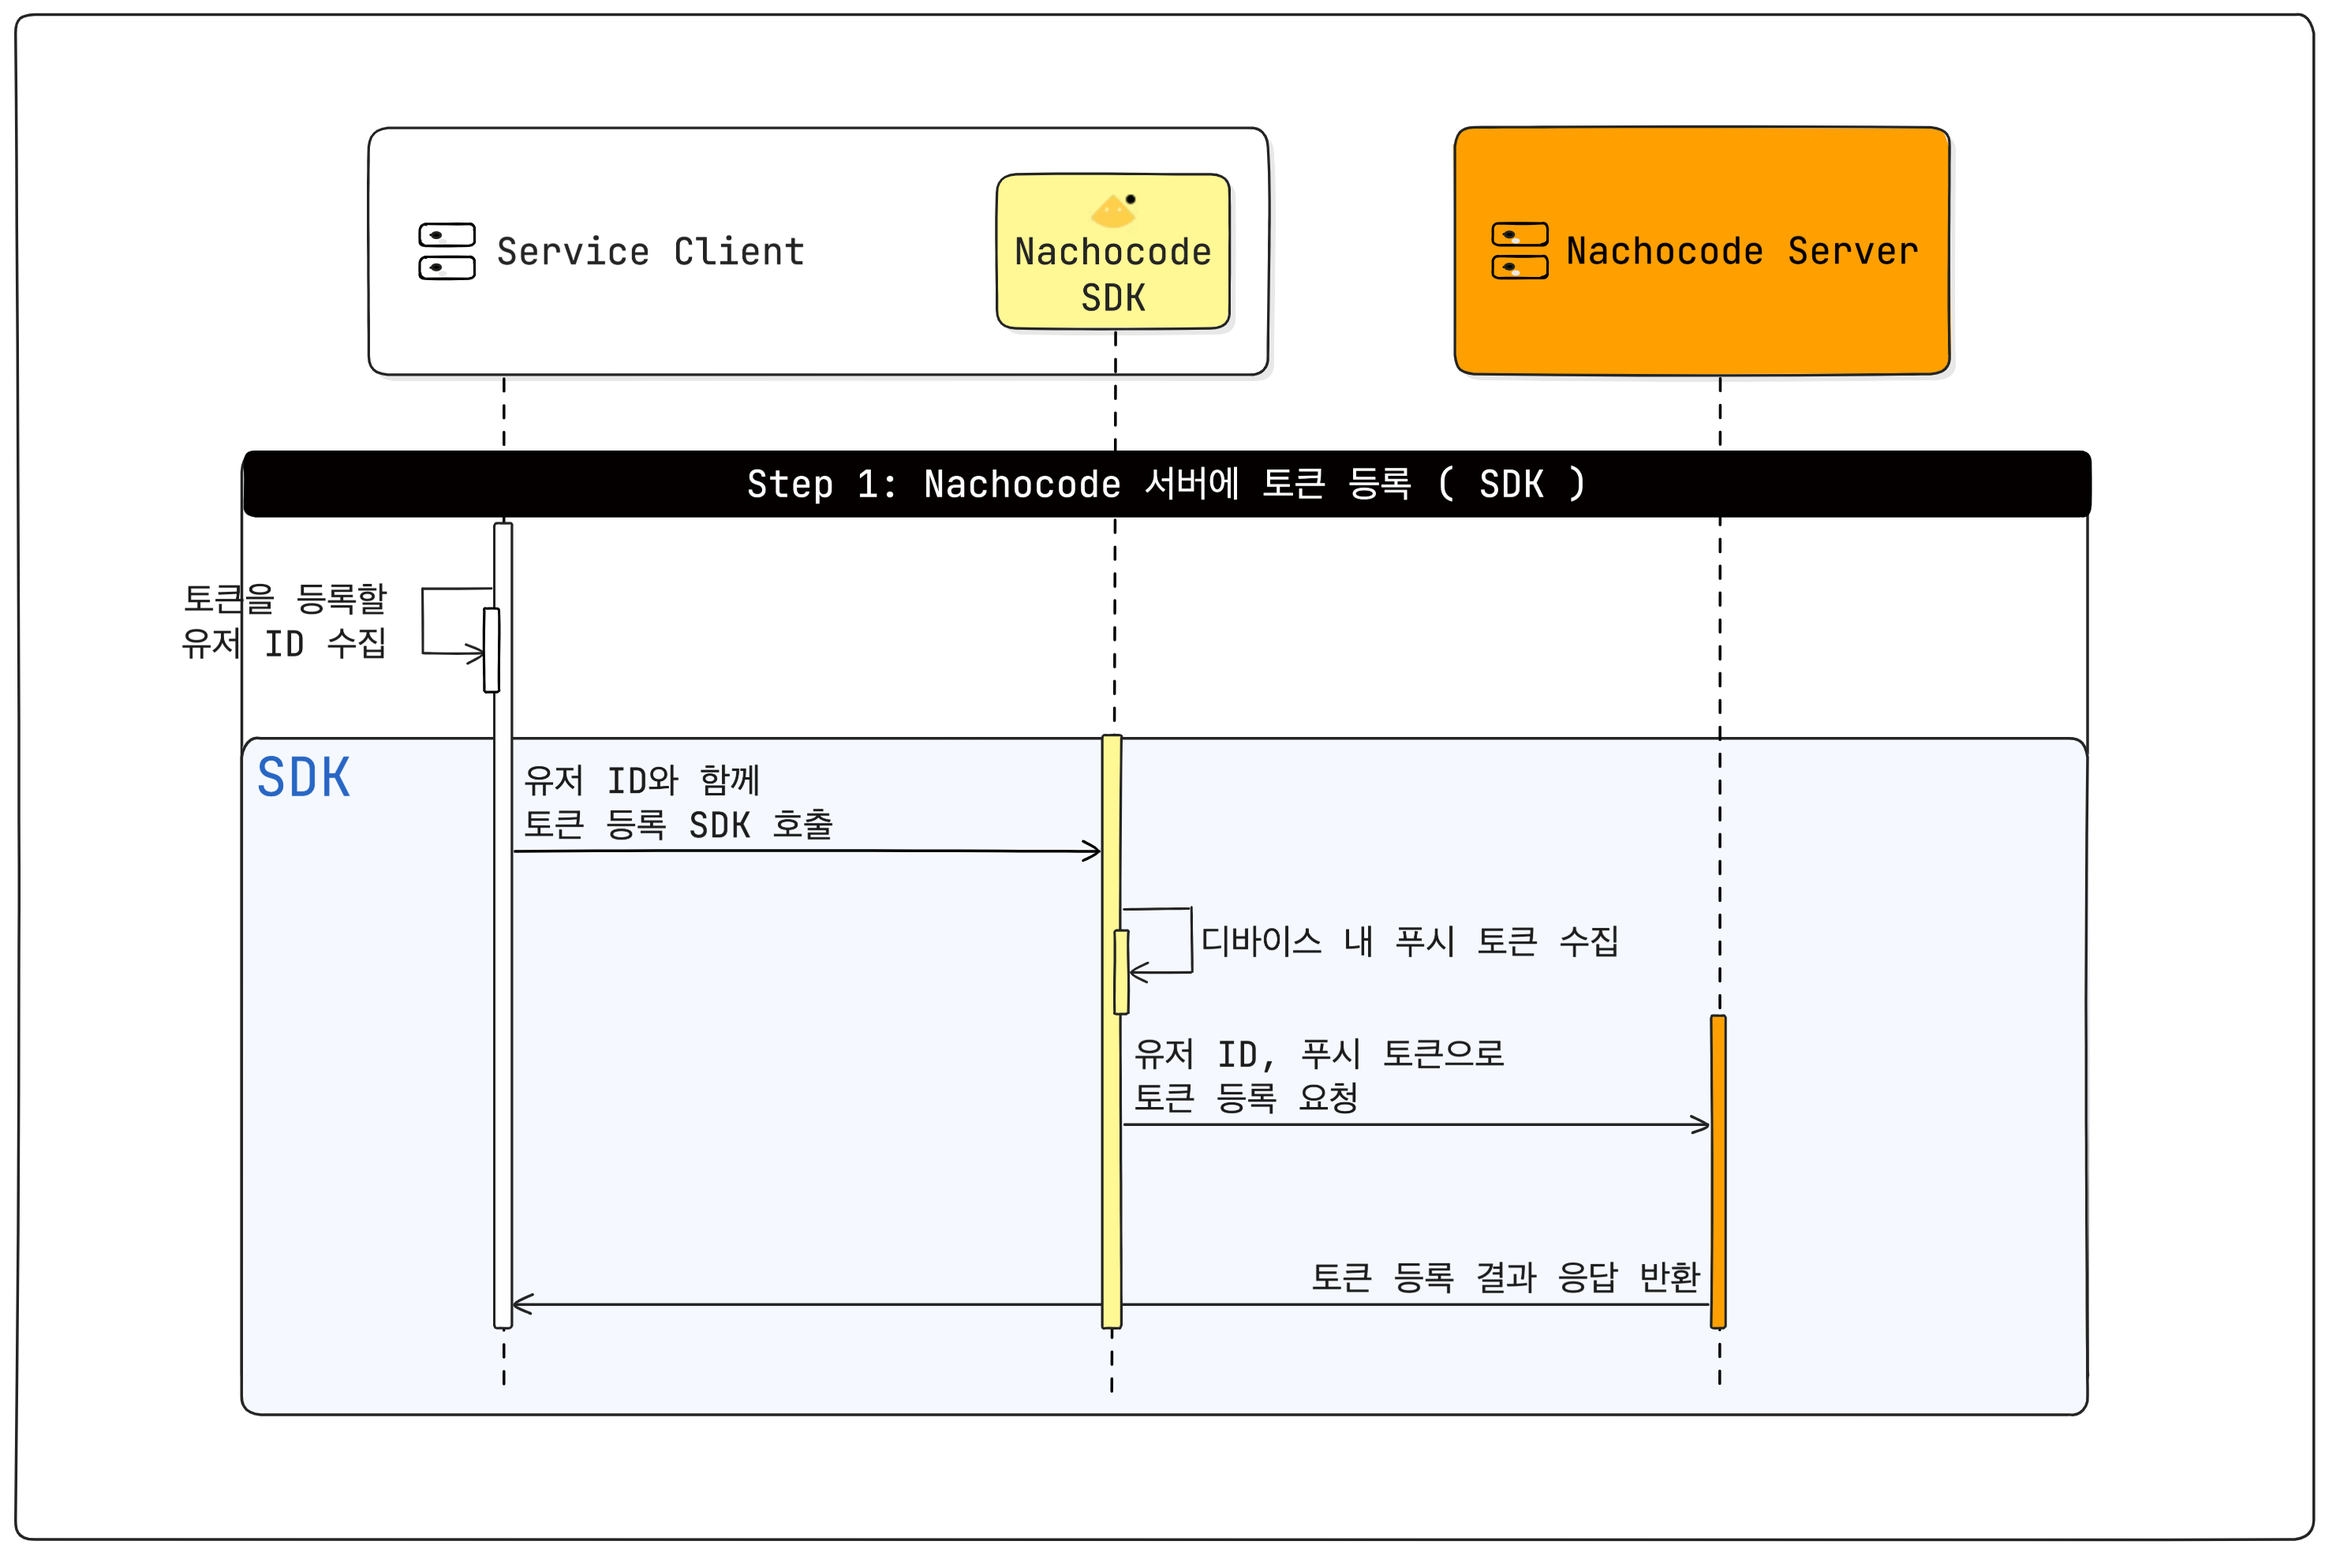
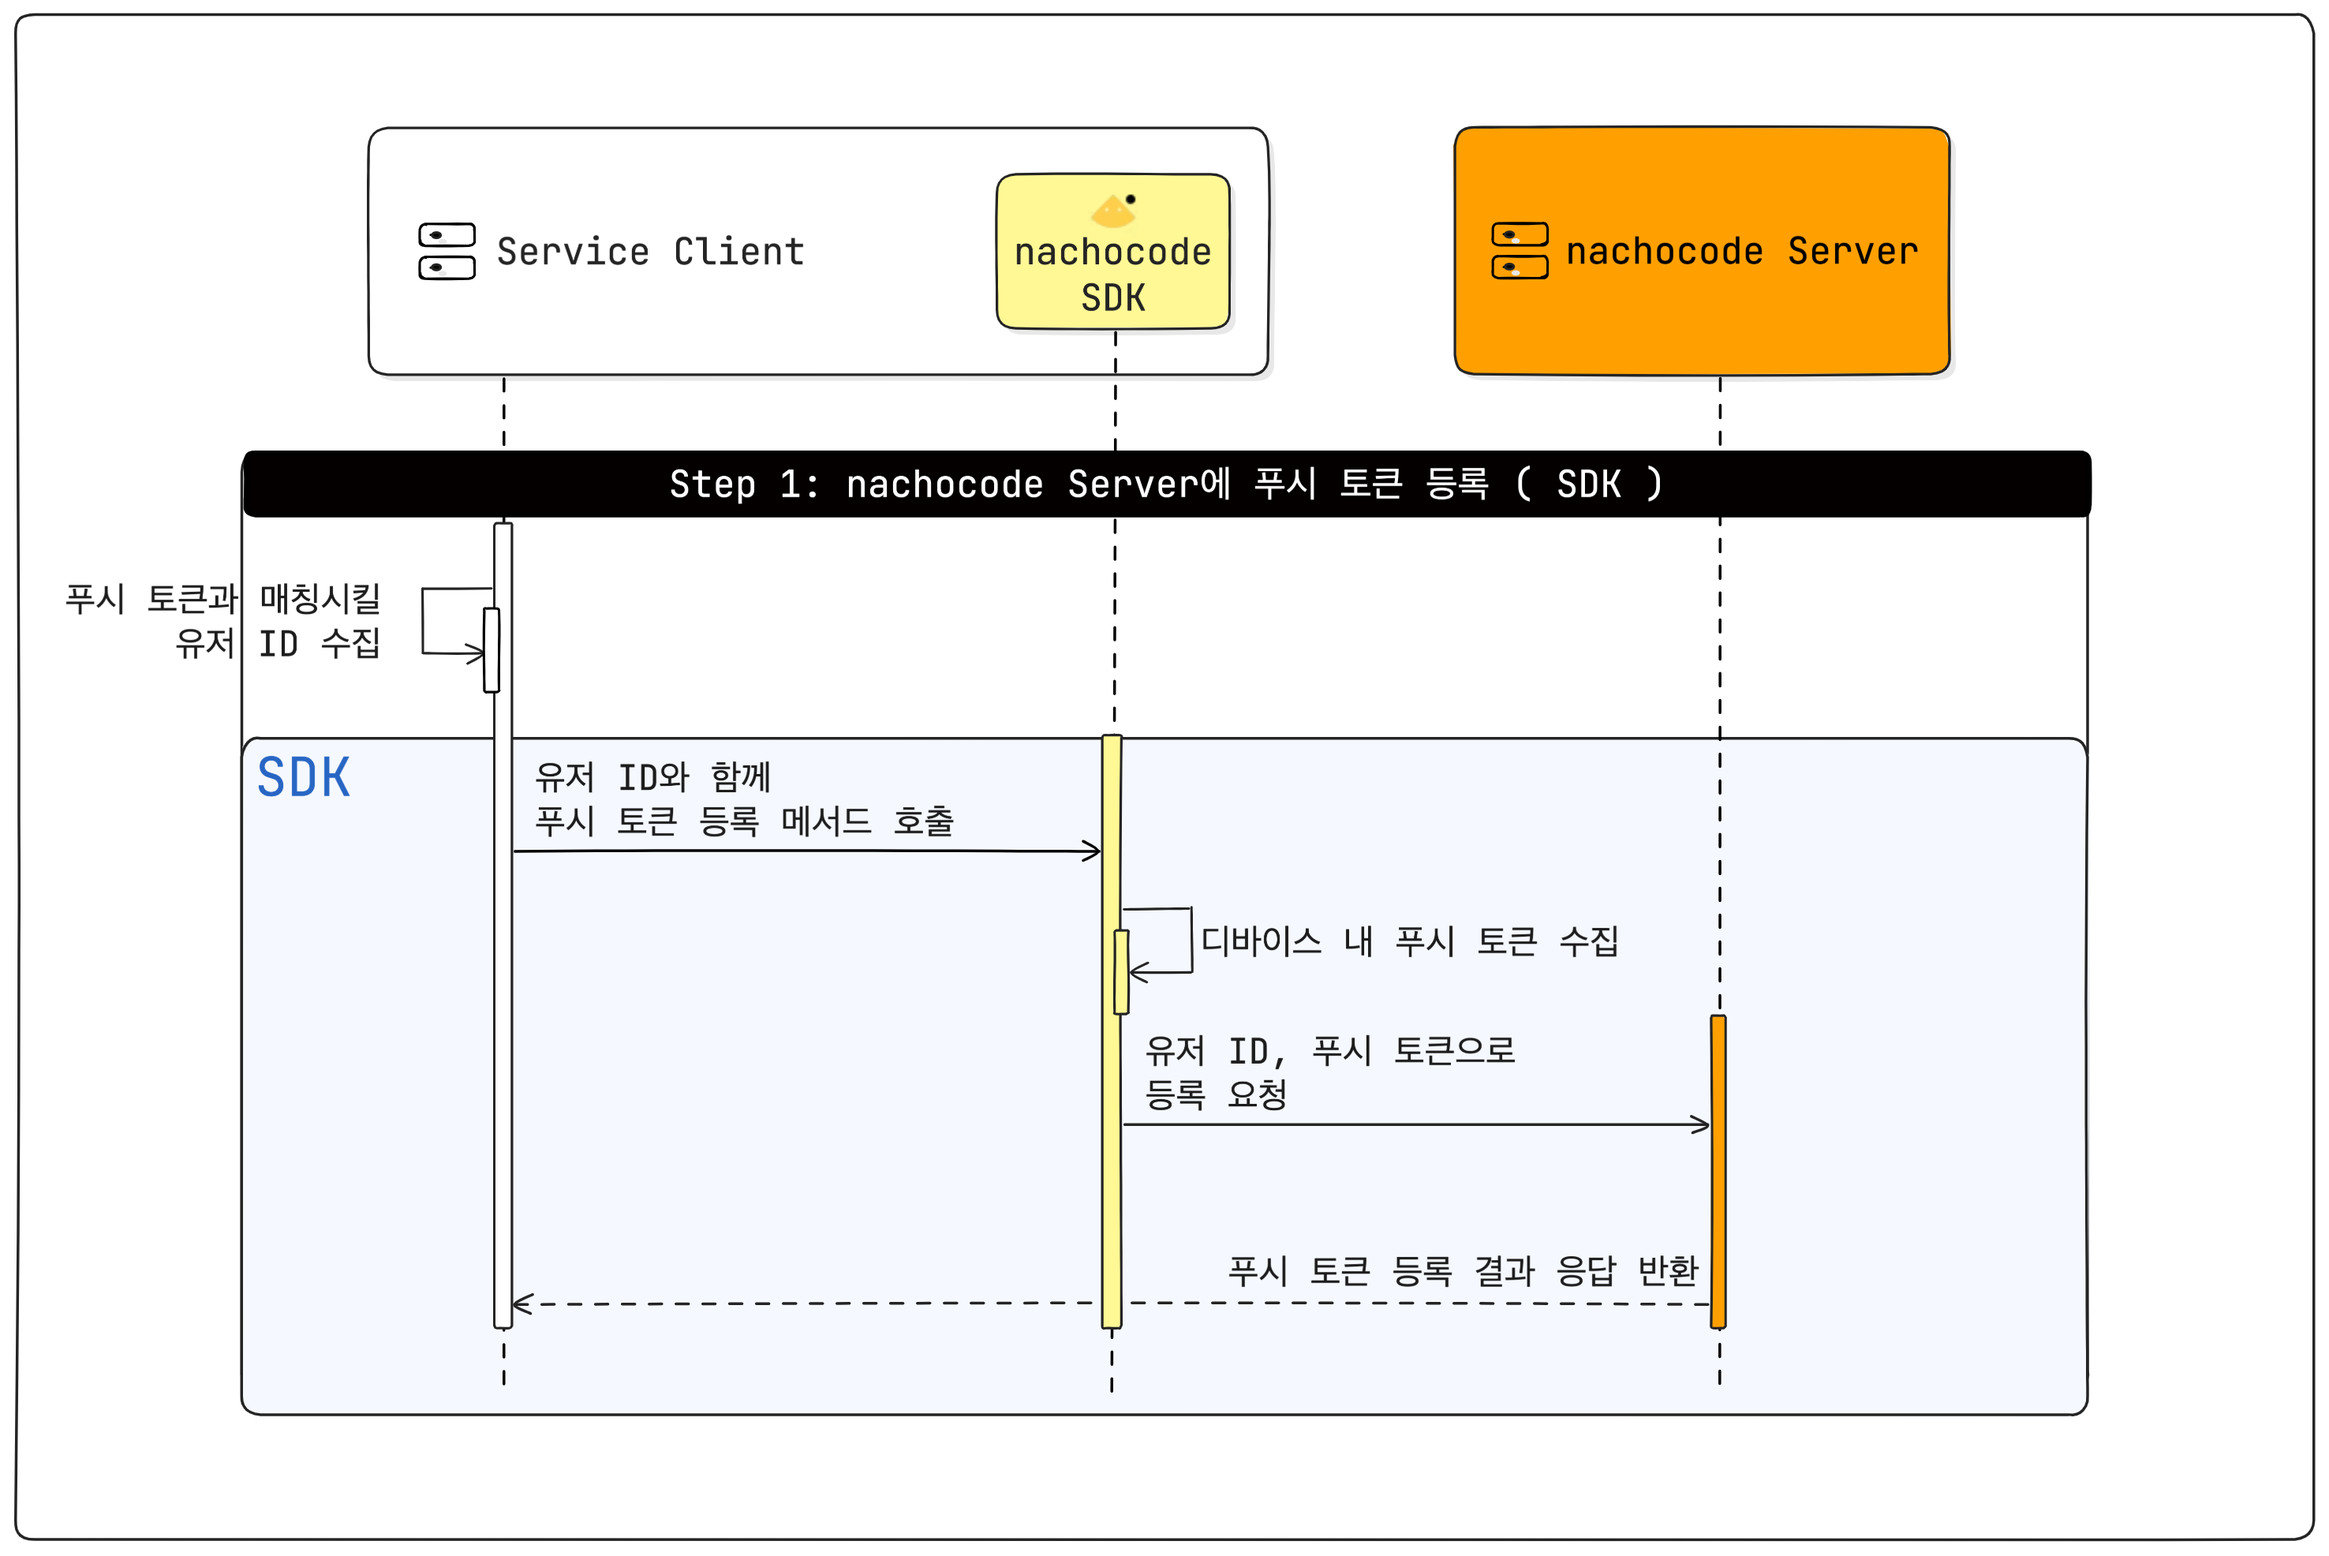
Fix : Fix comment and update diagram.

diff --git a/docs/guide/personal-push.md b/docs/guide/personal-push.md
@@ -15,33 +15,84 @@ sidebar_label: 개인화 푸시
 > [`/users`](../api/push/endpoints.md#post-apipushv2users)로 끝나는 API 엔드포인트의 경우, 다수의 유저에게 동일한 제목과 내용을 전송할 때 사용합니다.
 
 <br/>
-이 문서는 개인화 푸시 전송에 필요한 **준비 과정**과 **프로세스**에 대해 안내합니다.<br/>
+이 문서는 개인화 푸시 전송에 필요한 **준비 과정**과 **프로세스**에 대해 안내합니다.
 
 ## **개인화 푸시 전송 프로세스**
 
-**[ 프로세스 1 : Push Token 등록 (SDK) ]**
+**[ 프로세스 1 : 푸시 토큰 등록 (SDK) ]**
 
 ![personal_push_sequence_diagram](../../static/img/developer/nachocode_personal_push_sequence_diagram_1.png)
 
 <hr style={{border: "1px dashed #8E8C8C", opacity: "0.2"}}/>
 
-**[ 프로세스 2 : 푸시 전송 (API) ]**
+**[ 프로세스 2 : 개인화 푸시 전송 (API) ]**
 
 ![personal_push_sequence_diagram](../../static/img/developer/nachocode_personal_push_sequence_diagram_2.png)
 
 ### 1. 선행 작업
 
-나쵸코드 대시보드에서 **Firebase 프로젝트 설정파일 등록** 및 **API Key, Secret Key 발급**이 완료되어야 합니다.<br/>
-Firebase 프로젝트 설정파일 등록과 관련된 자세한 내용은 [사용자 가이드](https://docs.nachocode.io/ko/articles/%ED%91%B8%EC%8B%9C-%EC%95%8C%EB%A6%BC%EA%B0%9C%EC%9D%B8%ED%99%94-0eb97bdb) 탭에서 확인 가능합니다.
+나쵸코드 대시보드에서 **1)API Key, Secret Key 발급** 및 **2)Firebase 프로젝트 설정파일 등록**이 완료되어야 합니다.
 
-### 2. Push Token 등록 (SDK)
+- **API Key, Secret Key**는 안전하고 원활한 API 통신을 위해 필요한 정보로 나쵸코드 대시보드 **[앱 설정]** > **[개발자 설정]** 탭에서 발급 가능합니다.
+- **Firebase 프로젝트 설정 파일 등록**에는 아래와 같은 파일이 요구되며, 자세한 과정과 내용은 [사용자 가이드](https://docs.nachocode.io/ko/articles/%ED%91%B8%EC%8B%9C-%EC%95%8C%EB%A6%BC%EA%B0%9C%EC%9D%B8%ED%99%94-0eb97bdb) 탭에서 확인 가능합니다.
 
-[nachocode SDK](../sdk/namespaces/push#registerpushtokenuserid-string-promiseany)를 통해 유저별 토큰을 등록합니다.
+  - Firebase 계정 비공개 키
+  - Firebase 프로젝트 안드로이드 앱 생성 시 다운로드 받은 파일(`google-service.json`)
+  - Firebase 프로젝트 iOS 앱 생성 시 다운로드 받은 파일(`GoogleService-info.plist`)
 
-### 3. Push 전송 API 호출 (API Call)
+<br/>
 
-Server 대 Server [API Call](../api/push/endpoints)을 통해 푸시 전송이 가능합니다.
+### 2. 푸시 토큰 등록 ([SDK](../sdk/namespaces/push#registerpushtokenuserid-string-promiseany))
 
-### 4. 전송 결과 확인 방법
+> :white_check_mark: **유저 식별자만 제공하면, 푸시 토큰을 자동으로 등록합니다.**
 
-[nachocode](https://nachocode.io) 대시보드 **[앱 기능]** > **[푸시 알림]** > **[개인화 푸시]** 탭에서 푸시 전송 결과 확인이 가능합니다.
+<br/>
+
+나쵸코드 서버에서는 유저 식별자와 함께 유저 디바이스의 푸시 토큰을 관리하고, 이를 바탕으로 푸시 전송 요청 시 푸시를 전송할 디바이스를 특정합니다.  
+따라서, 개발자가 SDK를 활용하여 **Web Client Side에서 유저 식별자로 푸시 토큰 등록**을 완료하여야만 정상적인 푸시 전송이 가능합니다.
+
+푸시 토큰 등록은 유저를 식별할 수 있는 시점(_ex: 로그인_ )에 [토큰 등록 메서드](../sdk/namespaces/push#registerpushtokenuserid-string-promiseany) 호출을 통해 진행할 수 있습니다.  
+이 후, 제거하고자 하는 시점(_ex: 로그아웃_ )에는 [토큰 삭제 메서드](../sdk/namespaces/push#deletepushtokenuserid-string-promiseany) 호출을 통해 등록된 토큰을 삭제할 수 있습니다.
+
+<br/>
+
+### 3. 개인화 푸시 전송 ([API](../api/push/endpoints.md))
+
+> :white_check_mark: **등록된 유저 식별자만으로 매칭 및 푸시 전송이 이루어집니다.**
+
+<br/>
+
+**동일한 내용**을 **다수의 유저**에게 전송할 시에는 [`/users`](../api/push/endpoints.md#post-apipushv2users) API Endpoint를 사용하고,  
+**각 유저마다 다른 내용**을 전송할 시에는 [`/messages`](../api/push/endpoints.md#post-apipushv2messages) API Endpoint를 사용합니다.
+
+API 호출은 Server 대 Server 요청을 통해 이루어지므로, 푸시 전송 시점을 선정하여 개발자가 **Server Side 로직에 추가**하여야 합니다.  
+**전송하고자 하는 내용**과 대시보드에서 발급받은 **API Key, Secret Key**로 요청 데이터를 구성하여 상황에 맞는 API Endpoint로 푸시 전송을 요청할 수 있습니다.
+
+푸시 전송 요청이 nachocode server로 전달되면 토큰-유저식별자 매칭 과정을 거쳐 FCM으로의 요청을 수행하고, 완료된 FCM의 결과에 따른 히스토리를 관리합니다.
+
+<br/>
+
+### 4. 전송 결과 확인
+
+각 푸시 요청의 **히스토리**와 **성공 및 실패** 여부 이 외에도 **전송률**, **도달률**, **클릭률**과 같이 다양한 통계 데이터를 제공합니다. 이를 통해, 각 푸시의 효과를  
+분석하여 전략 수립에 활용할 수 있습니다.
+
+푸시 요청에 대한 상세 정보는 [nachocode](https://nachocode.io) 대시보드의 **[앱 기능]** > **[푸시 알림]** > **[개인화 푸시]** 탭에서 확인할 수 있습니다.
+
+<br/><br/><hr style={{ border: "1px solid black", opacity: "0.5"}} /><br/>
+
+## 개인화 푸시 활용 방법(예시)
+
+- #### 고객 세그먼트를 통한 알림 전송
+
+  - 특정 상품을 구독하고 있는 모든 사용자들에게 공지 알림을 보내고 싶을 때, 해당 사용자들에게 공지 알림을 전송할 수 있습니다.
+  - 특정 상품을 관심 등록한 사용자들에게 할인 및 마감 등의 내용으로 알림을 전송하고 싶을 때, 나쵸코드의 개인화 푸시를 이용해 상품 별로 사용자들에게 다른 내용의 푸시 알림을 전송할 수 있습니다.
+  - 새로운 상품이 등록됐을 때 해당 카테고리에 관심을 갖고 있던 사용자들에게 상품 입고 알림을 전송할 수 있습니다.
+  - 특정 시점에 연령대, 성별 등 사용자들의 정보를 토대로 개인화된 알림을 전송할 수 있습니다.
+
+<br/>
+
+- #### 이벤트 감지를 통한 알림 전송
+
+  - 사용자 A가 올린 게시글에 ‘좋아요’가 등록 됐을 때, 사용자 A에게 ‘좋아요’ 등록 알림을 전송할 수 있습니다.
+  - 글에 댓글이 생성되었을 때, 글 작성자에게 댓글 알림을 전송할 수 있습니다.
